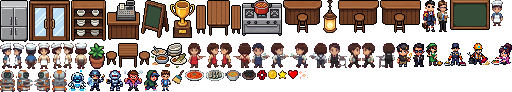
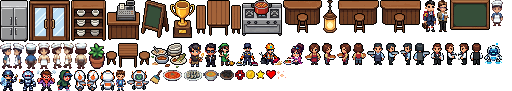
PixelLab 서빙 1~4단계(4방향) 반영
2x2 시트에서 서빙 알바·홀 서버·수석 웨이터·서빙 로봇을 앞/오른쪽/뒤/왼쪽 4방향 모두 잘라 아틀라스에 넣음.
이동 방향에 따라 앞·옆·뒷모습이 바뀜.

Claude-Session: https://claude.ai/code/session_0158wwMB9e4mDcVmGF2JCoym

diff --git a/js/px-atlas.js b/js/px-atlas.js
@@ -3,8 +3,8 @@ export const PX_SRC = 'assets/px/px.png';
 export const PX_ROOM = 'assets/px/room.png';
 export const PX = {
   aboard: [141, 0, 28, 38],
-  angry: [257, 70, 10, 10],
-  broom: [172, 70, 12, 14],
+  angry: [235, 70, 10, 10],
+  broom: [150, 70, 12, 14],
   chalkboard: [450, 0, 40, 30],
   chef_f_back: [75, 43, 12, 26],
   chef_f_front: [38, 43, 12, 26],
@@ -14,53 +14,53 @@ export const PX = {
   chef_m_front: [491, 0, 12, 26],
   chef_m_left: [13, 43, 11, 26],
   chef_m_right: [0, 43, 12, 26],
-  cleaner1: [426, 43, 17, 23],
-  cleaner2: [444, 43, 22, 23],
-  cleaner3: [467, 43, 23, 22],
-  cleaner4: [68, 70, 18, 21],
-  coin: [268, 70, 9, 9],
+  cleaner1: [218, 43, 17, 23],
+  cleaner2: [236, 43, 22, 23],
+  cleaner3: [259, 43, 23, 22],
+  cleaner4: [484, 43, 18, 21],
+  coin: [246, 70, 9, 9],
   counter_a: [380, 0, 41, 33],
   counter_b: [283, 0, 39, 33],
   counter_c: [338, 0, 41, 33],
-  cust_kid: [161, 70, 10, 21],
+  cust_kid: [116, 70, 10, 21],
   cust_office_f: [437, 0, 12, 32],
   cust_office_m: [422, 0, 14, 32],
-  dish_burnt: [242, 70, 14, 11],
-  dish_kimbap: [206, 70, 18, 11],
-  dish_ramen: [225, 70, 16, 11],
-  dish_tteokbokki: [185, 70, 20, 11],
+  dish_burnt: [220, 70, 14, 11],
+  dish_kimbap: [184, 70, 18, 11],
+  dish_ramen: [203, 70, 16, 11],
+  dish_tteokbokki: [163, 70, 20, 11],
   door: [29, 0, 41, 41],
   fridge: [0, 0, 28, 42],
-  guard1: [396, 43, 16, 24],
-  guard2: [413, 43, 12, 24],
-  guard3: [87, 70, 18, 21],
-  guard4: [106, 70, 17, 21],
-  heart: [288, 70, 10, 9],
+  guard1: [188, 43, 16, 24],
+  guard2: [205, 43, 12, 24],
+  guard3: [0, 70, 18, 21],
+  guard4: [19, 70, 17, 21],
+  heart: [266, 70, 10, 9],
   lantern: [323, 0, 14, 33],
   plant: [88, 43, 17, 26],
   pos: [107, 0, 33, 40],
   rack: [71, 0, 35, 41],
-  rowdy_loud: [124, 70, 19, 21],
-  rowdy_picky: [491, 43, 21, 22],
-  rowdy_sneak: [144, 70, 16, 21],
-  server1_back: [233, 43, 18, 25],
-  server1_front: [188, 43, 18, 25],
-  server1_left: [220, 43, 12, 25],
-  server1_right: [207, 43, 12, 25],
-  server2_back: [309, 43, 18, 25],
-  server2_front: [252, 43, 18, 25],
-  server2_left: [290, 43, 18, 25],
-  server2_right: [271, 43, 18, 25],
-  server3_back: [376, 43, 19, 25],
-  server3_front: [328, 43, 19, 25],
-  server3_left: [362, 43, 13, 25],
-  server3_right: [348, 43, 13, 25],
-  server4_back: [52, 70, 15, 22],
-  server4_front: [0, 70, 15, 22],
-  server4_left: [34, 70, 17, 22],
-  server4_right: [16, 70, 17, 22],
-  sparkle: [299, 70, 9, 9],
-  star: [278, 70, 9, 9],
+  rowdy_loud: [37, 70, 19, 21],
+  rowdy_picky: [283, 43, 21, 22],
+  rowdy_sneak: [57, 70, 16, 21],
+  server1_back: [352, 43, 14, 22],
+  server1_front: [305, 43, 16, 22],
+  server1_left: [337, 43, 14, 22],
+  server1_right: [322, 43, 14, 22],
+  server2_back: [413, 43, 17, 22],
+  server2_front: [367, 43, 18, 22],
+  server2_left: [400, 43, 12, 22],
+  server2_right: [386, 43, 13, 22],
+  server3_back: [470, 43, 13, 22],
+  server3_front: [431, 43, 13, 22],
+  server3_left: [458, 43, 11, 22],
+  server3_right: [445, 43, 12, 22],
+  server4_back: [100, 70, 15, 21],
+  server4_front: [127, 70, 22, 20],
+  server4_left: [87, 70, 12, 21],
+  server4_right: [74, 70, 12, 21],
+  sparkle: [277, 70, 9, 9],
+  star: [256, 70, 9, 9],
   stove: [242, 0, 40, 36],
   table: [106, 43, 44, 25],
   table_long: [196, 0, 45, 36],
